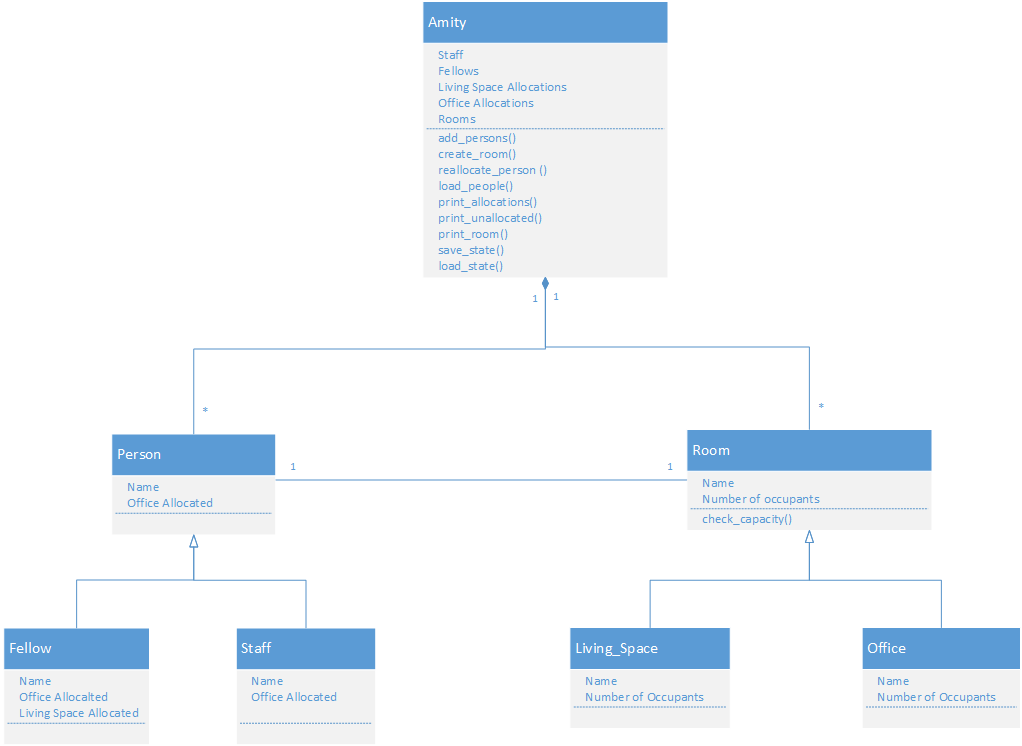
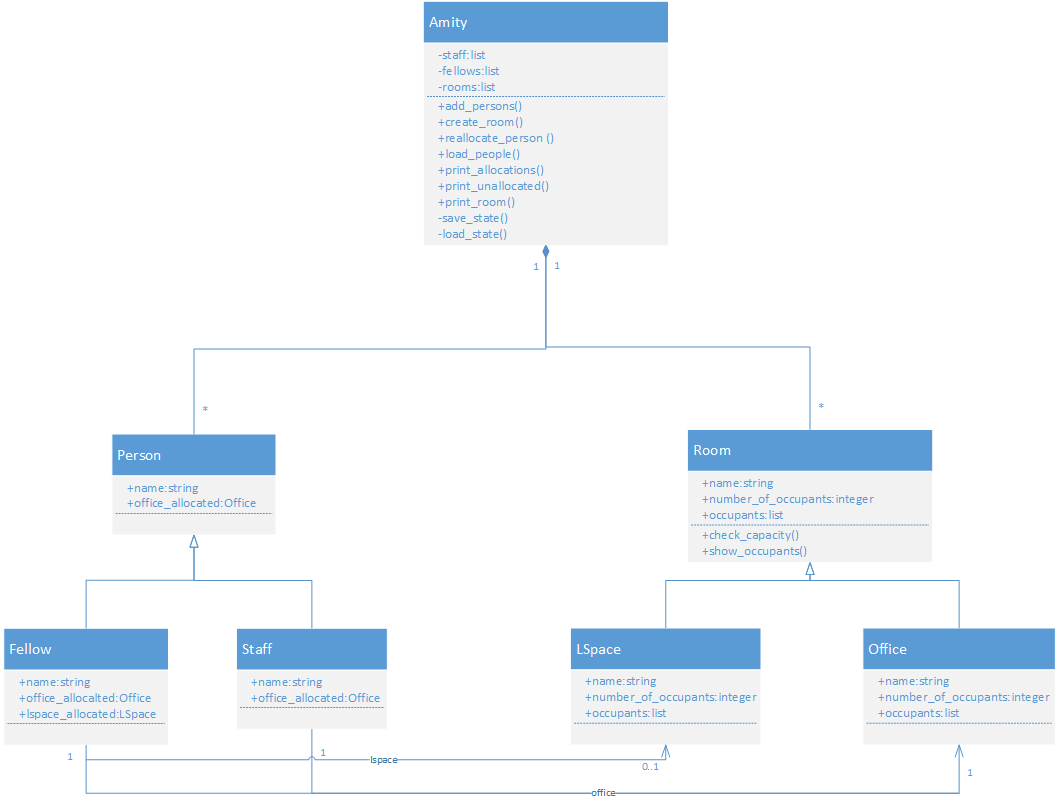
Updated design and tests

diff --git a/tests/amitytests.py b/tests/amitytests.py
@@ -1,11 +1,28 @@
 import unittest
-from app import run
-
+from app.classes.amity import Amity
+from app.classes.room import Room, Office, Lspace
+from app.classes.person import Person, Staff, Fellow
 
 class AmityTest(unittest.TestCase):
 
+    def setUp(self):
+        self.amity = Amity()
+        self.staff = self.amity.add_person("staff1","Staff")
+        self.fellow = self.amity.add_person("fellow1","Fellow","N")
+
     def test_add_person(self):
-        pass
+        "Tests for new staff"
+        self.assertIsInstance(self.amity.add_person("Ian Kingori","Staff","N"), Staff)
+        self.assertIsInstance(self.amity.add_person("Ian Kingori","Staff"), Staff)
+        self.assertEqual(self.amity.add_person("Ian Kingori","Staff","Y"), "Error, Staff cannot be allocated a living space")
+
+        "Tests for new fellow"
+        self.assertIsInstance(self.amity.add_person("Ian Kingori","Fellow","N"), Fellow)
+        self.assertIsInstance(self.amity.add_person("Ian Kingori","Fellow","Y"), Fellow)
+        self.assertIsInstance(self.amity.add_person("Ian Kingori","Fellow"), Fellow)
+
+        "Test Invalid Input"
+        self.assertEqual(self.amity.add_person("Ian Kingori", "Intern", "Y" ), "Invalid role")
 
     def test_create_room(self):
         pass
@@ -30,6 +47,7 @@ class AmityTest(unittest.TestCase):
 
     def test_load_state(self):
         pass
+
 
 
 
